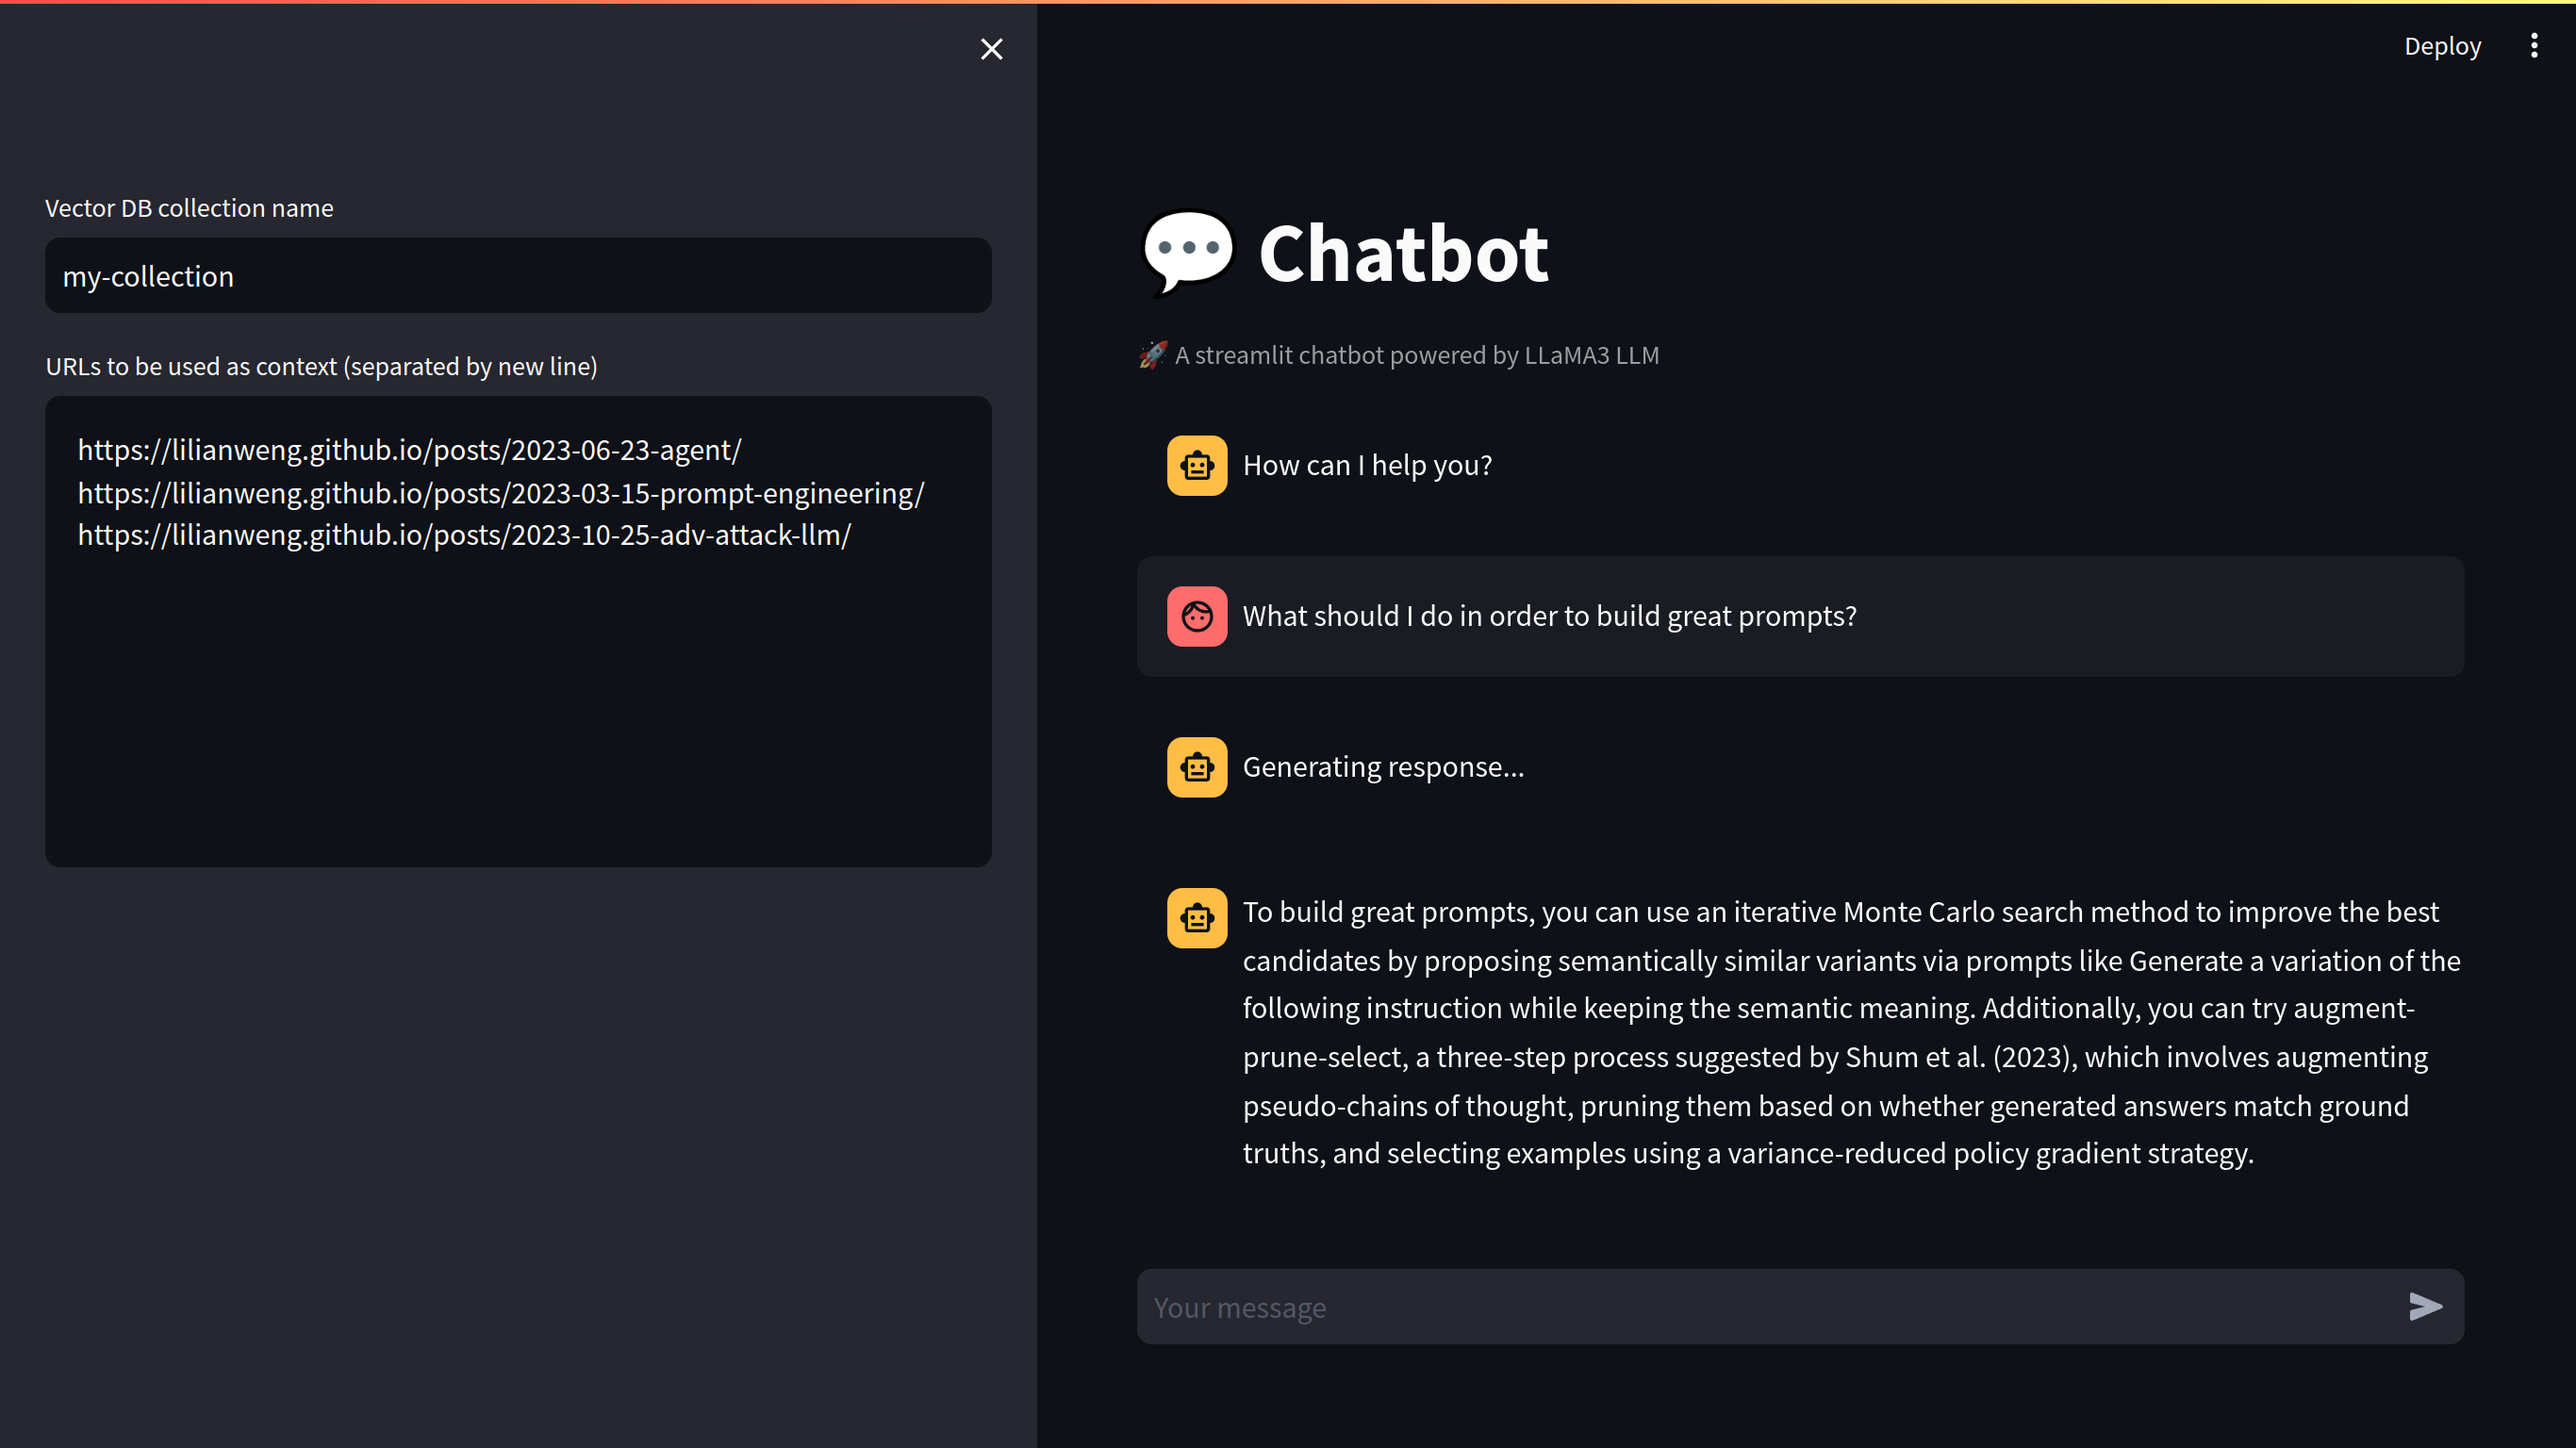
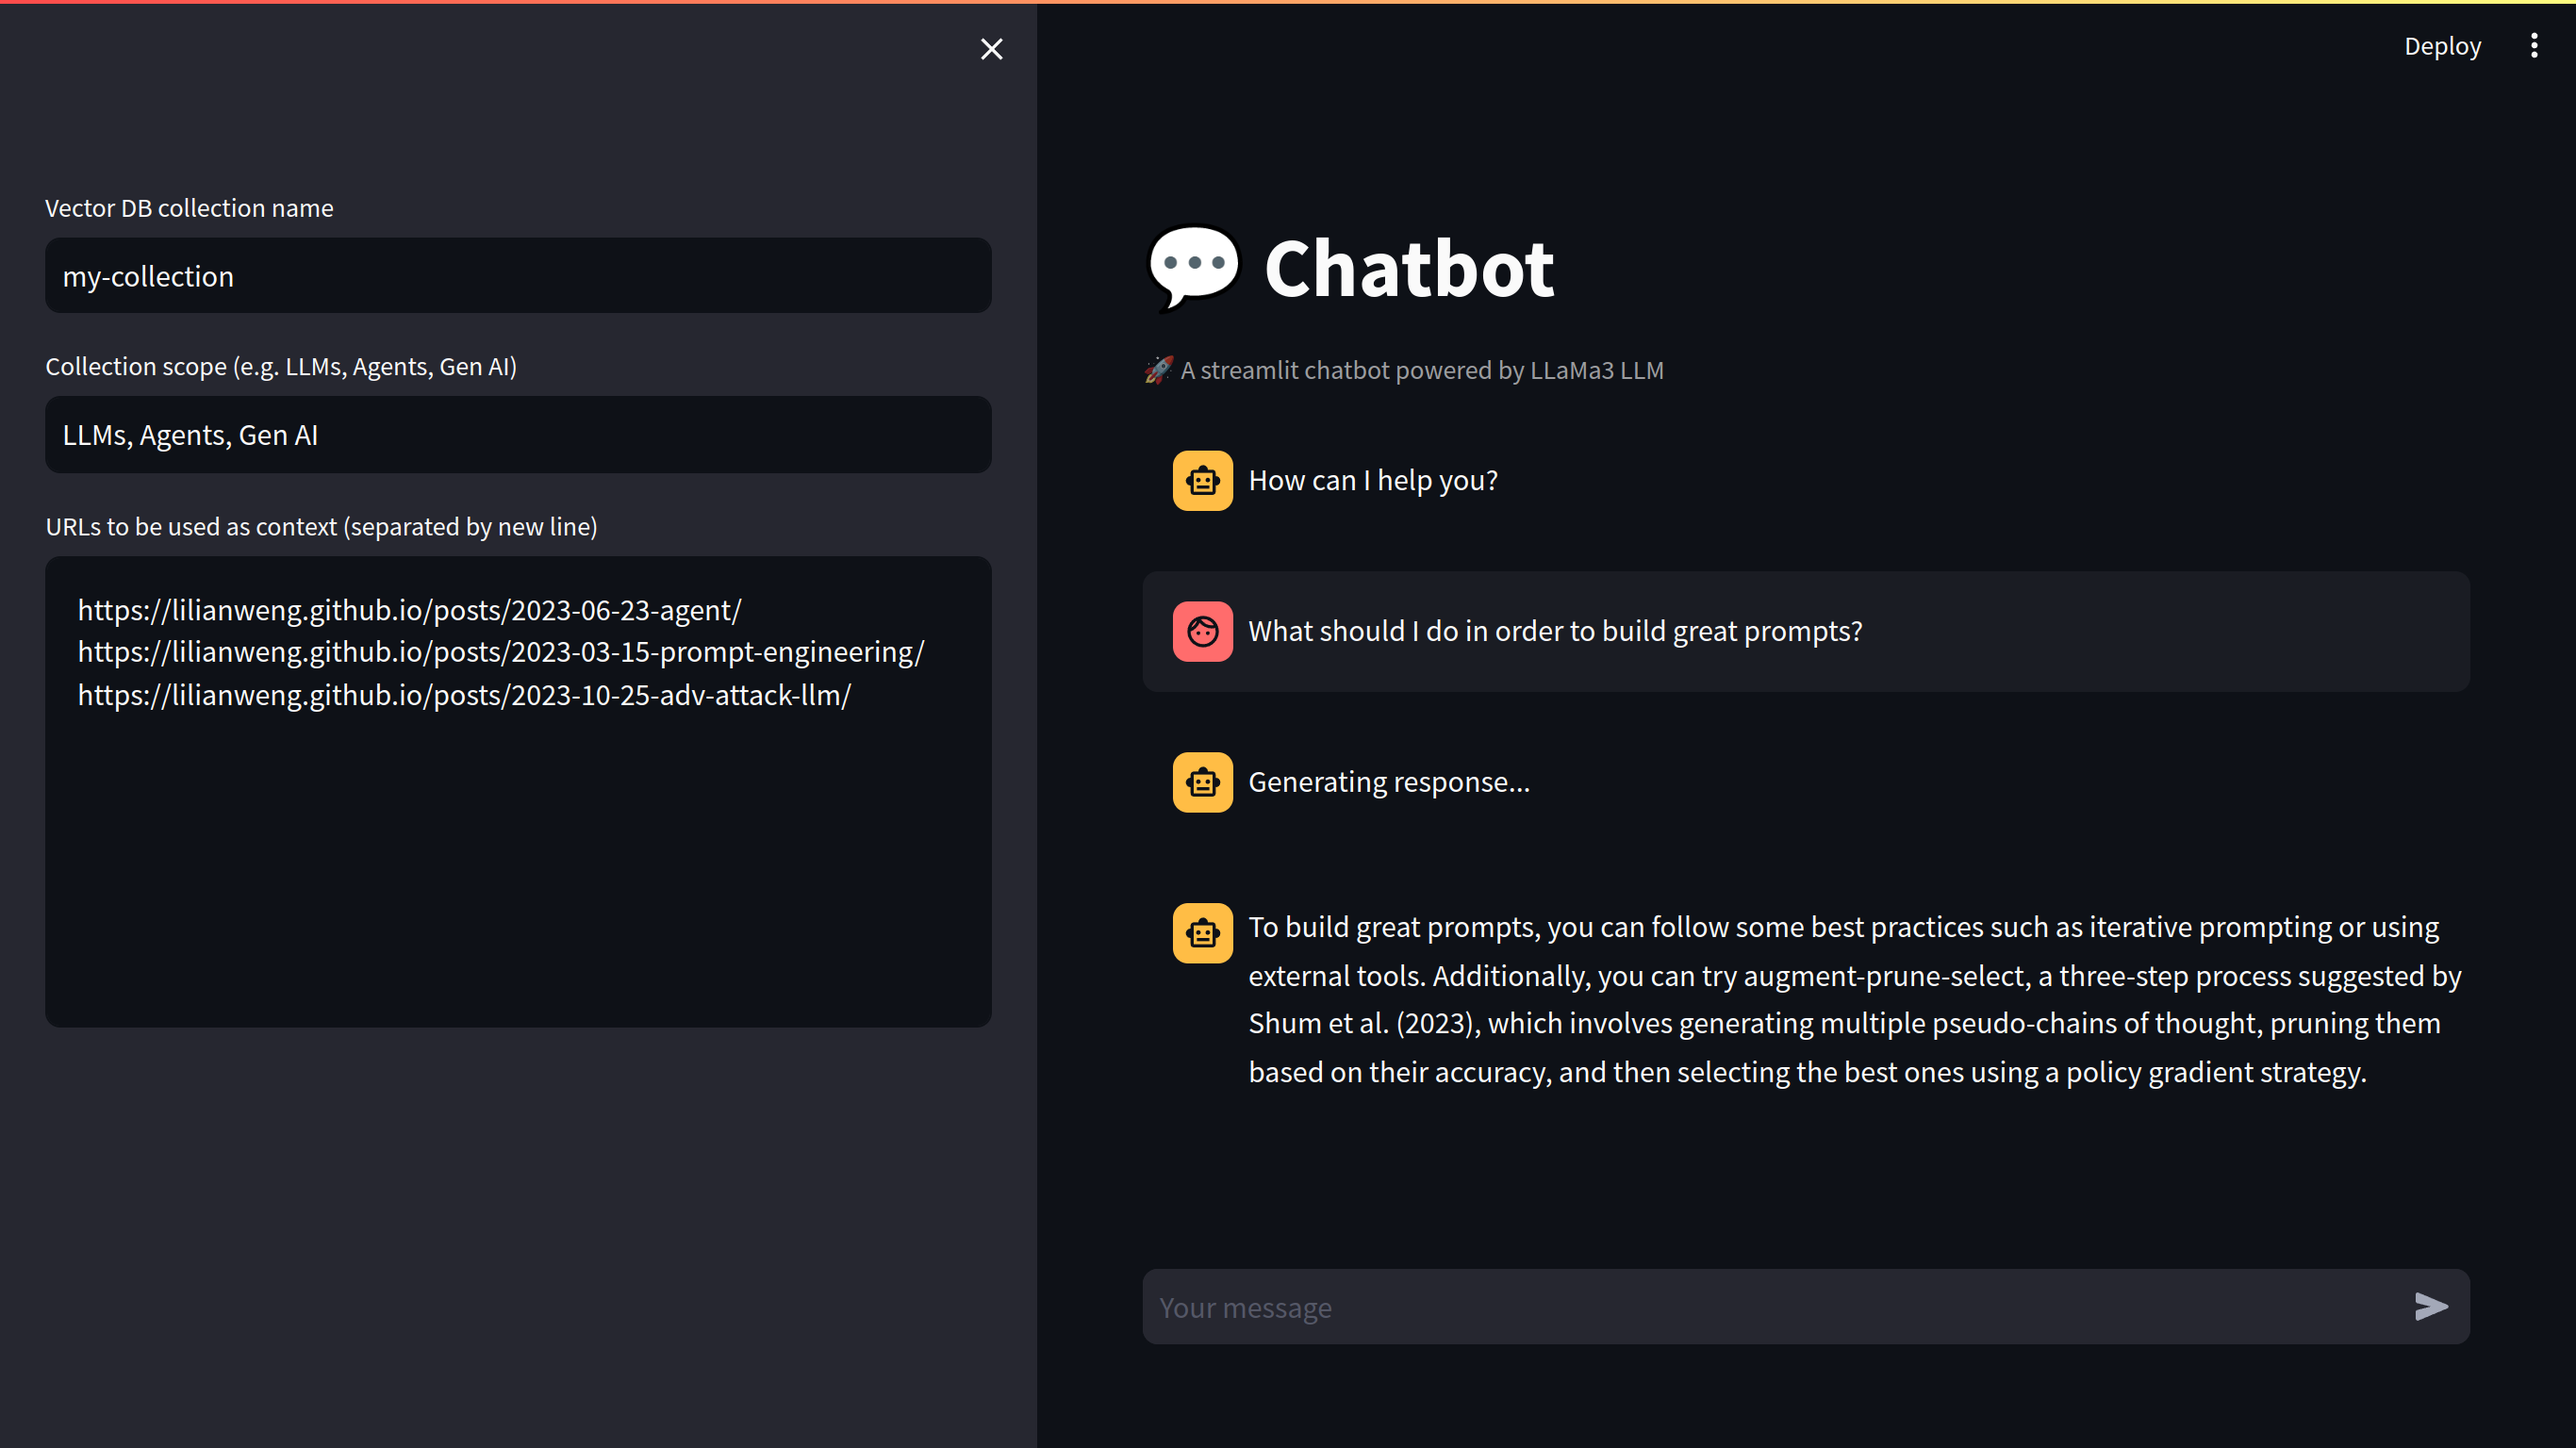
docs: update docs

diff --git a/src/app.py b/src/app.py
@@ -7,7 +7,7 @@ load_dotenv()
 with st.sidebar:
     collection_name = st.text_input("Vector DB collection name", "my-collection")
     collection_scope = st.text_input(
-        "Collection scope (e.g. LLMs, agents, Gen AI)", "LLMs, agents, Gen AI"
+        "Collection scope (e.g. LLMs, Agents, Gen AI)", "LLMs, Agents, Gen AI"
     )
     urls = st.text_area(
         "URLs to be used as context (separated by new line)",

diff --git a/readme.md b/readme.md
@@ -2,8 +2,8 @@
 
 <p align="center">
   <img alt="Python" src="https://img.shields.io/badge/Python-3.11-blue">
-  <img alt="LLaMa" src="https://img.shields.io/badge/LLaMa-3-blue">
-  <img alt="LangChain" src="https://img.shields.io/badge/LangChain-3.11-blue">
+  <img alt="LLaMa" src="https://img.shields.io/badge/LLaMa-3-dodgerblue">
+  <img alt="LangChain" src="https://img.shields.io/badge/LangChain-0.1-darkgreen">
   <img alt="ChromaDB" src="https://img.shields.io/badge/ChromaDB-0.5-orange">
   <img alt="UI" src="https://img.shields.io/badge/Streamlit-1.33-red">
 </p>
